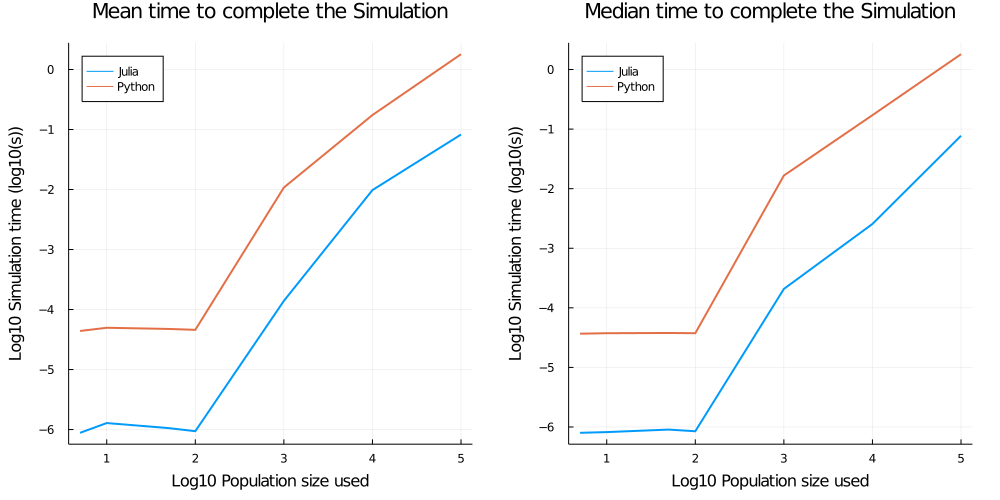
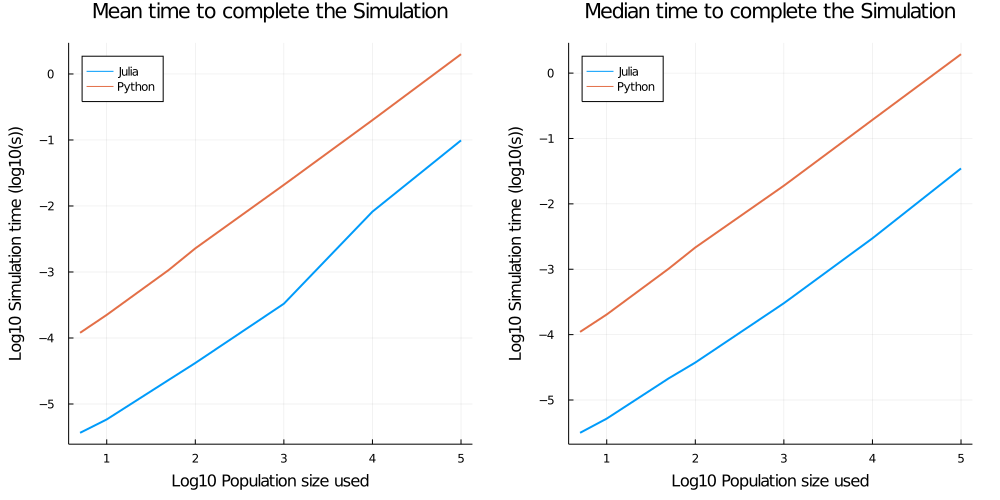
Beta scale with Pop Size. Infected Pop scale with Pop size. Updated file system for better use with additional models. Julia now uses Matplotlib for plotting

diff --git a/sirMain.py b/sirMain.py
@@ -6,7 +6,7 @@ Author: Joel Trent and Josh Looker
 '''
 
 from sirModels import gillespieDirect2Processes
-from plots import plot
+from plots import plotSIR
 import numpy as np
 import random
 
@@ -20,21 +20,21 @@ def main():
     N = np.array([5, 10, 50, 100,1000,10000])
 
     S_total = N - 1
-    I_total = np.ones(len(N))
+    I_total = np.ceil(0.05 * N)
     R_total = np.zeros(len(N))
 
     t_max = 200
     alpha = 0.4
-    beta = 0.001
+    beta = 10 / N
 
     # iterate through populations
     for i in range(len(N)):
         t, S, I, R = gillespieDirect2Processes(t_max, S_total[i], I_total[i],
-            R_total[i], alpha, beta, N)
+            R_total[i], alpha, beta[i], N[i])
 
         # plot and export the simulation
-        outputFileName = f"pythonGraphs/SIR_Model_Pop_{N[i]}"
-        plot(t, [S, I, R], N[i], alpha, beta, outputFileName, Display=False)
+        outputFileName = f"pythonGraphs/wellMixedDirectRandom/SIR_Model_Pop_{N[i]}"
+        plotSIR(t, [S, I, R], alpha, beta[i], N[i], outputFileName, Display=False)
 
 if __name__=="__main__":
     main()

diff --git a/plots.py b/plots.py
@@ -6,7 +6,7 @@ Author: Joel Trent and Josh Looker
 '''
 from matplotlib import pyplot as plt
 
-def plot(t, SIR, N, alpha, beta, outputFileName="plot", Display=True, save=True):
+def plotSIR(t, SIR, alpha, beta, N, outputFileName="plot", Display=True, save=True):
     '''
     Inputs
     t              : Array of times at which events have occured
